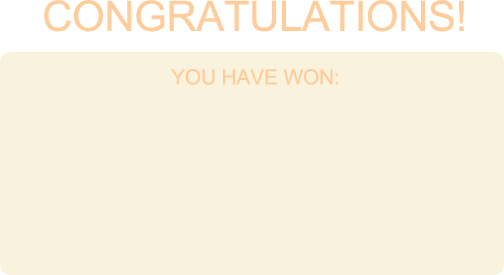
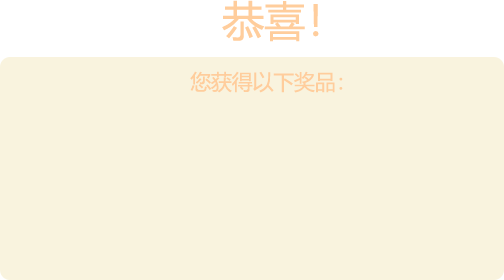
leo
CN Language

Changed region(s): [[0.0893, 0.0, 0.9226, 0.1455], [0.3274, 0.2327, 0.6845, 0.3491], [0.0, 0.1745, 1.0, 0.2327]]

diff --git a/bin-debug/Info1UI.js b/bin-debug/Info1UI.js
@@ -242,18 +242,15 @@ var Info1UI = (function (_super) {
         this.mcCheckBox.skinName = "resource/eui_skins/CheckBoxSkin.exml";
         this.mcCheckBox.x = this.registerLabelX;
         this.mcCheckBox.y = this.registerLabelYBias + this.registerLabelY * 7.5;
-        var terms1_LBoxTxt = createTextFiledNoEui(mc_content.terms1_LBox);
-        terms1_LBoxTxt.bold = true;
+        //   var terms1_LBoxTxt = createTextFiledNoEui(mc_content.terms1_LBox);
+        var terms1_LBoxTxt = new egret.TextField;
+        terms1_LBoxTxt.textFlow = new Array({ text: "我希望通过信件、电邮、简讯及/或电话搜集接收", style: { "fontFamily": "Microsoft YaHei" } }, { text: mc_content.terms1_LBox, style: { "href": "event:text event triggered", "bold": true, "fontFamily": "Microsoft YaHei" } }, { text: "\r\n所述的最新营销动态。", style: { "fontFamily": "Microsoft YaHei" } });
         terms1_LBoxTxt.size = 23;
         terms1_LBoxTxt.x = this.registerLabelX + 63;
-        terms1_LBoxTxt.y = this.registerLabelYBias + this.registerLabelY * 7.5 + 50;
-        this.mcCheckBox.label = mc_content.terms1;
-        this.register_view.addChild(this.mcCheckBox);
-        this.register_view.addChild(terms1_LBoxTxt);
-        this.mcCheckBox.addEventListener(egret.Event.CHANGE, function () {
-        }, this);
+        terms1_LBoxTxt.y = 822;
+        terms1_LBoxTxt.textColor = 0x000000;
         terms1_LBoxTxt.touchEnabled = true;
-        terms1_LBoxTxt.addEventListener(egret.TouchEvent.TOUCH_TAP, function () {
+        terms1_LBoxTxt.addEventListener(egret.TextEvent.LINK, function (evt) {
             var cont = new egret.DisplayObjectContainer();
             var _whiteShader = createShaderMask(this.stage.width, this.stage.height, 0xFFFFFF, 0.8);
             var myCard = createBitmap("terms2_png");
@@ -269,12 +266,20 @@ var Info1UI = (function (_super) {
             }, this);
             this.addChild(cont);
         }, this);
+        terms1_LBoxTxt.addEventListener(egret.TouchEvent.TOUCH_TAP, function (evt) {
+            this.mcCheckBox.selected = !this.mcCheckBox.selected;
+        }, this);
+        this.mcCheckBox.label = "";
+        this.register_view.addChild(this.mcCheckBox);
+        this.register_view.addChild(terms1_LBoxTxt);
+        this.mcCheckBox.addEventListener(egret.Event.CHANGE, function () {
+        }, this);
         //0,17+92*4
         this.mcCheckBox2.skinName = "resource/eui_skins/CheckBoxSkin.exml";
         this.mcCheckBox2.x = this.registerLabelX;
         this.mcCheckBox2.y = this.registerLabelYBias + this.registerLabelY * 8.5;
         var tx = new egret.TextField;
-        tx.textFlow = new Array({ text: "I understand and agree to both the" + "Sands Rewards \r\nLifeStyle programme terms and conditions" + " and the " + "\r\nprocessing of my personal data" + ", and warrant that \r\nthe declarations ", style: {} }, { text: mc_content.terms2_LBox, style: { "href": "event:text event triggered", "bold": true } }, { text: " are true.", style: {} });
+        tx.textFlow = new Array({ text: "我理解并同意金沙尊赏时尚会员计划的条款与条件以及\r\n对于本人资料的处理，同时保证声明内容", style: { "fontFamily": "Microsoft YaHei" } }, { text: mc_content.terms2_LBox, style: { "href": "event:text event triggered", "bold": true, "fontFamily": "Microsoft YaHei" } }, { text: "真实有效。", style: { "fontFamily": "Microsoft YaHei" } });
         tx.touchEnabled = true;
         tx.addEventListener(egret.TextEvent.LINK, function (evt) {
             console.log(evt.text);
@@ -284,9 +289,10 @@ var Info1UI = (function (_super) {
             middleObject(this.stage.stageWidth, myCard);
             myCard.y = this.stage.stageHeight * 0.2;
             var tc = createTextFiledNoEui(mc_content.TC);
-            tc.size = 28;
-            tc.x = this.registerLabelX + 63;
-            tc.y = this.stage.stageHeight * 0.4 - 49;
+            tc.fontFamily = "Microsoft YaHei";
+            tc.size = 30;
+            tc.x = this.registerLabelX + 246;
+            tc.y = this.stage.stageHeight * 0.4 - 102;
             tc.textColor = 0x851c1c;
             tc.bold = true;
             cont.addChild(_whiteShader);

diff --git a/src/MBSContent.ts b/src/MBSContent.ts
@@ -1,51 +1,51 @@
 let mc_content={
-    "ERROR_MESSAGE":"Network Error.",
-    "PlayedMsg":"You have played today.\r\nPlay again tomorrow.",
-    "SignOut":"Sign out success.",
-    "DD":"REWARD DOLLARS",
-    "OX":"OX COIN",
-    "redPack":" RED PAKCET",
+    "ERROR_MESSAGE":"系统错误，请稍后再试",
+    "PlayedMsg":"游戏今天已经玩过啦。\r\n请明天再来吧~",
+    "SignOut":"注销成功。",
+    "DD":"新币",
+    "OX":"小金牛",
+    "redPack":" MBS限量红包壳",
     "ENVELOPES":"ENVELOPES",
     "coinsCongTipsText1":"Collect 888 Virtual Ox coins to redeem a",
     "coinsCongTipsText2":"Marina Bay Sands Capsule Machine Game.",
-    "envCongTipsText1":"OF MARINA BAY SANDS",
-    "envCongTipsText2":"LIMITED EDITION RED PACKET ENVELOPES",
-    "PACK":" PACK",
-    "ac_content":" AUSPICIOUS OX\r\n COLLECTIBLE",
-    "ad_content":" REWARD DOLLARS",
-    "ae_content":" RED PACKET ENVELOP",
-    "MYPRIZE":"MY PRIZE",
-    "PRIZE":"PRIZE",
-    "tipText1":"Login/Sign up to Save",
-    "tipText2":"your scores & prizes!",
+    "envCongTipsText1":"来自滨海湾金沙的",
+    "envCongTipsText2":"限量红包壳",
+    "PACK":" 份",
+    "ac_content":" 新春小金牛\r\n",
+    "ad_content":" 新春新币",
+    "ae_content":" \r\n\r\nMBS限量红包壳",
+    "MYPRIZE":"我的奖品",
+    "PRIZE":"奖品",
+    "tipText1":"登陆/注册保存",
+    "tipText2":"您的游戏奖品和积分!",
     "MID":"会员ID:",
-    "InputID":"Input ID",
-    "LoginSuccess":"Login success",
-    "FormatErr":"Member ID\r\nFormat error",
-    "NetworkErr":"Network Error.\r\nPlease try Again Later.",
-    "BinSuccess":"Binding and Login success.",
-    "Binded":"Prizes have been bound by other member.",
-    "BindedBefore":"Your account have bound prizes before.",
-    "Bindfail":"Binding failed.\r\nTry Again Later.",
-    "terms1":"  I wish to receive marketing updates via postal mail,\r\n   email,text messaging and/or telephone as described ",
-    "terms1_LBox":"here.",
-    "terms2":"  I understand and agree to both the"+"Sands Rewards \r\n   LifeStyle programme terms and conditions"+" and the "+"\r\nprocessing of my personal data"+", and warrant that \r\nthe declarations "+"       "+" are true.",
-    "terms2_LBox":"here",
-    "firstName":"First Name",
-    "lastName":"Last Name",
-    "phone":"Mobile Phone",
-    "email":"Email",
-    "InvalidDate":"Invalid Date Format.",
-    "MIDMsg":"Sin up success,patron ID:",
-    "SUFailExist":"Sign up failed.\r\nPatron profile existed.",
+    "InputID":"输入您的会员ID",
+    "LoginSuccess":"登陆成功",
+    "FormatErr":"会员 ID\r\n格式错误",
+    "NetworkErr":"系统错误\r\n请稍后再试。",
+    "BinSuccess":"绑定且登陆成功",
+    "Binded":"奖品已经与其他会员绑定，请检查您的输入",
+    "BindedBefore":"您的账号已经被绑定过了，请检查您的输入",
+    "Bindfail":"绑定失败。\r\n请稍后再试。",
+    "terms1":"  我希望通过信件、电邮、简讯及/或电话搜集，\r\n接收所述的最新营销动态在",
+    "terms1_LBox":"此处",
+    "terms2":"  我理解并同意金沙尊赏时尚会员计划的条款与条件 以及 对于本人资料的处理，同时保证声明内容    真实有效。",
+    "terms2_LBox":" 本声明 ",
+    "firstName":"名字",
+    "lastName":"姓氏",
+    "phone":"手机号码",
+    "email":"电邮",
+    "InvalidDate":"日期格式不正确。",
+    "MIDMsg":"注册成功，会员ID为:",
+    "SUFailExist":"注册失败。\r\n会员信息已存在。",
     "zpname":"请进行抽奖",
-    "cText1":"AUSPICIOUS OX",
-    "cText2":"COLLECTIBLE",
-    "eText1":"LIMITED EDITION",
-    "eText2":"REDPACKET",
-    "eText3":"ENVELOPES",
-    "eText":"LIMITED EDITION\r\nREDPACKET\nENVELOPES",
-    "RedeemTime":"Redeem your prizes by 11 March 2021",
-    "Play":"Please play the game",
-    "TC":"Terms and Conditions."
+    "cText1":"小金牛",
+    "cText2":"",
+    "eText1":"MBS限量红包壳",
+    "eText2":"",
+    "eText3":"",
+    "eText":"MBS限量红包壳",
+    "RedeemTime":"请在2021年3月11日之前兑换您的奖品",
+    "Play":"请开始游戏",
+    "TC":"条款与条件。"
 }

diff --git a/src/Info1UI.ts b/src/Info1UI.ts
@@ -312,21 +312,25 @@ class Info1UI extends eui.UILayer {
       this.mcCheckBox.skinName = "resource/eui_skins/CheckBoxSkin.exml";
       this.mcCheckBox.x = this.registerLabelX;
       this.mcCheckBox.y = this.registerLabelYBias+this.registerLabelY*7.5;
-      var terms1_LBoxTxt = createTextFiledNoEui(mc_content.terms1_LBox);
-      terms1_LBoxTxt.bold = true;
+    //   var terms1_LBoxTxt = createTextFiledNoEui(mc_content.terms1_LBox);
+      
+      var terms1_LBoxTxt:egret.TextField = new egret.TextField;
+        terms1_LBoxTxt.textFlow = new Array<egret.ITextElement>(
+            { text:"我希望通过信件、电邮、简讯及/或电话搜集接收", style: {"fontFamily":"Microsoft YaHei"} },{ text:mc_content.terms1_LBox, style: { "href" : "event:text event triggered","bold":true,"fontFamily":"Microsoft YaHei"} }
+            ,{ text:"\r\n所述的最新营销动态。", style: {"fontFamily":"Microsoft YaHei"} }
+        );
+
       terms1_LBoxTxt.size = 23;
       terms1_LBoxTxt.x = this.registerLabelX+63;
-      terms1_LBoxTxt.y = this.registerLabelYBias+this.registerLabelY*7.5+50;
-      this.mcCheckBox.label = mc_content.terms1;
-      this.register_view.addChild(this.mcCheckBox);
-      this.register_view.addChild(terms1_LBoxTxt);
-      this.mcCheckBox.addEventListener(egret.Event.CHANGE, function(){
+      terms1_LBoxTxt.y = 822;
+      terms1_LBoxTxt.textColor=0x000000;
 
-      }, this);
+
+      
 
 
       terms1_LBoxTxt.touchEnabled = true;
-      terms1_LBoxTxt.addEventListener(egret.TouchEvent.TOUCH_TAP,function(){
+      terms1_LBoxTxt.addEventListener( egret.TextEvent.LINK, function( evt:egret.TextEvent){
              var cont = new egret.DisplayObjectContainer();
              var _whiteShader = createShaderMask(this.stage.width,this.stage.height,0xFFFFFF,0.8);
              var myCard = createBitmap("terms2_png");
@@ -347,7 +351,18 @@ class Info1UI extends eui.UILayer {
                      },this);
              },this);
              this.addChild(cont);
-      },this)
+      },this);
+      terms1_LBoxTxt.addEventListener( egret.TouchEvent.TOUCH_TAP, function( evt:egret.TextEvent){
+            this.mcCheckBox.selected =!this.mcCheckBox.selected;
+        }, this );
+
+        this.mcCheckBox.label = "";
+      this.register_view.addChild(this.mcCheckBox);
+      this.register_view.addChild(terms1_LBoxTxt);
+      this.mcCheckBox.addEventListener(egret.Event.CHANGE, function(){
+
+      }, this);
+
 
       //0,17+92*4
       this.mcCheckBox2.skinName = "resource/eui_skins/CheckBoxSkin.exml";
@@ -356,8 +371,8 @@ class Info1UI extends eui.UILayer {
 
       var tx:egret.TextField = new egret.TextField;
         tx.textFlow = new Array<egret.ITextElement>(
-            { text:"I understand and agree to both the"+"Sands Rewards \r\nLifeStyle programme terms and conditions"+" and the "+"\r\nprocessing of my personal data"+", and warrant that \r\nthe declarations ", style: {} },{ text:mc_content.terms2_LBox, style: { "href" : "event:text event triggered","bold":true} }
-            ,{ text:" are true.", style: {} }
+            { text:"我理解并同意金沙尊赏时尚会员计划的条款与条件以及\r\n对于本人资料的处理，同时保证声明内容", style: {"fontFamily":"Microsoft YaHei"} },{ text:mc_content.terms2_LBox, style: { "href" : "event:text event triggered","bold":true,"fontFamily":"Microsoft YaHei"} }
+            ,{ text:"真实有效。", style: {"fontFamily":"Microsoft YaHei"} }
         );
         tx.touchEnabled = true;
         tx.addEventListener( egret.TextEvent.LINK, function( evt:egret.TextEvent){
@@ -369,9 +384,10 @@ class Info1UI extends eui.UILayer {
              myCard.y = this.stage.stageHeight * 0.2;
 
             var tc = createTextFiledNoEui(mc_content.TC);
-            tc.size = 28;
-            tc.x = this.registerLabelX+63;
-            tc.y = this.stage.stageHeight * 0.4-49;
+            tc.fontFamily="Microsoft YaHei";
+            tc.size = 30;
+            tc.x = this.registerLabelX+246;
+            tc.y = this.stage.stageHeight * 0.4-102;
             tc.textColor = 0x851c1c;
             tc.bold = true;
              cont.addChild(_whiteShader);

diff --git a/src/PrizeAndRules.ts b/src/PrizeAndRules.ts
@@ -164,9 +164,9 @@ class PrizeAndRules extends eui.UILayer {
 
 
         var tc = createTextFiledNoEui(mc_content.terms1_LBox);
-            tc.size = 35;
-            tc.x = 305;
-            tc.y = 995;
+            tc.size = 32;
+            tc.x = 435;
+            tc.y = 790;
             tc.textColor = 0x851c1c;
             tc.bold = true;
 
